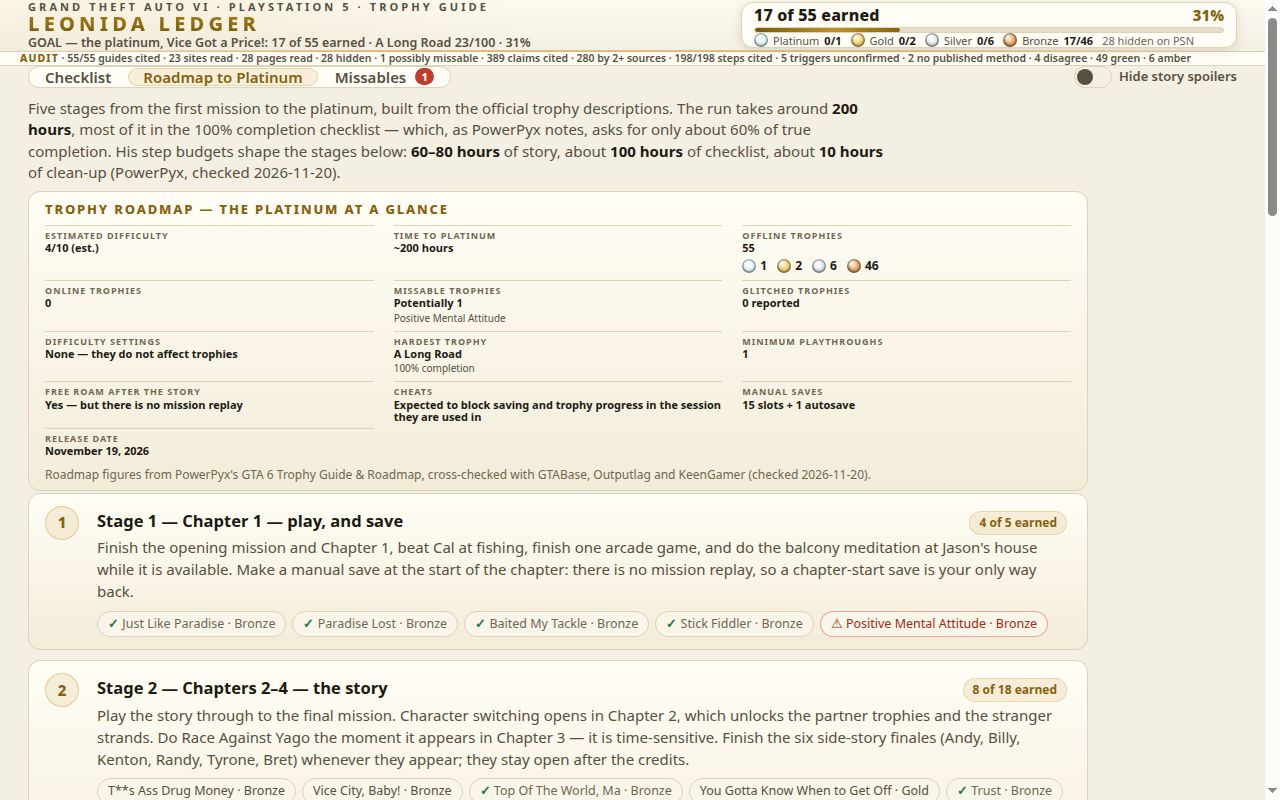
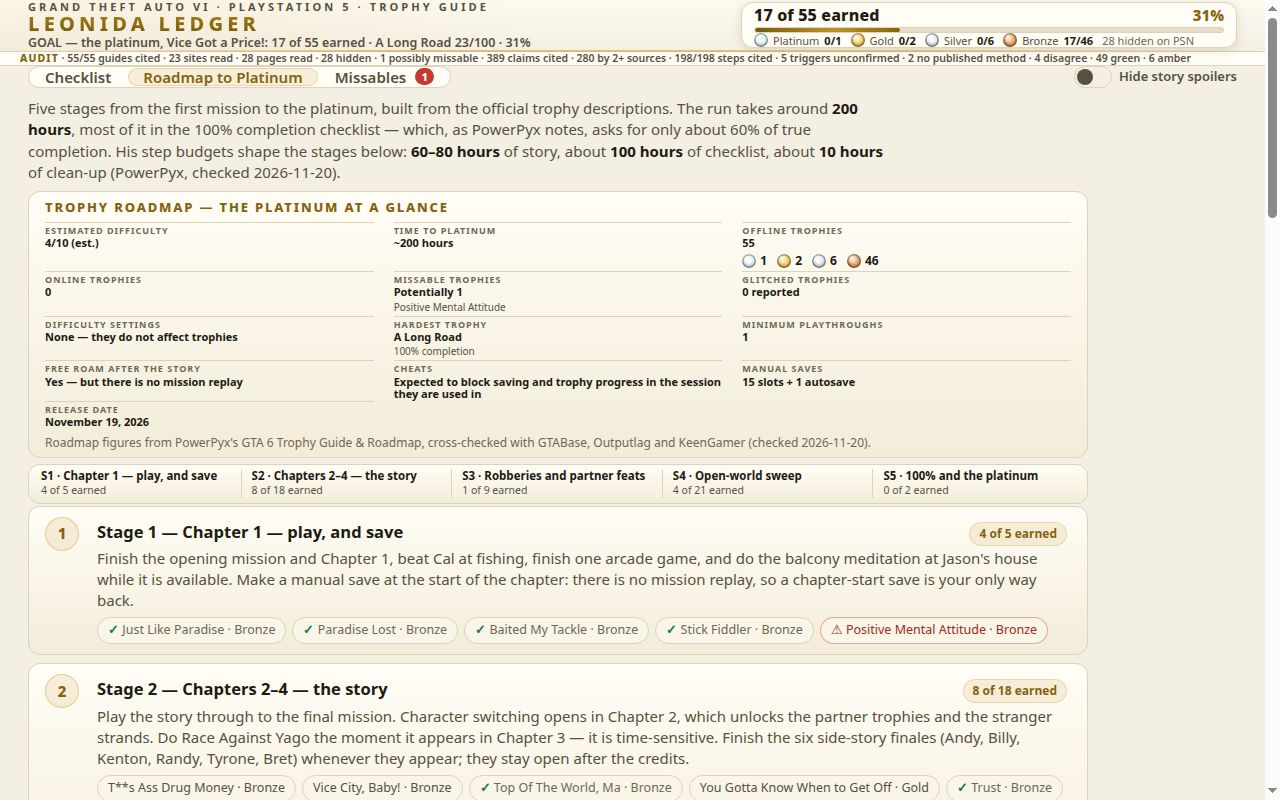
v24: screenshot-evidence round — named meditation spots on the missables card, NEXT UP strip skips spoiler-masked trophies, five-stage overview band on the roadmap

Changed region(s): [[0.0312, 0.25, 0.8438, 0.9062], [0.0625, 0.9375, 0.8438, 1.0]]

diff --git a/app/app.js b/app/app.js
@@ -1382,8 +1382,16 @@ function differBox() {
    then the official list's order inside the stage — skipping
    the ones already earned. It follows the ticks like the
    banner's Next Up line, and puts the roadmap's sequence on
-   the cover instead of leaving it to the roadmap shot. A
-   spoiler-hidden trophy is named as hidden, as there. */
+   the cover instead of leaving it to the roadmap shot.
+   v24: a spoiler-masked trophy cannot be named, and a run of
+   identical "Hidden story trophy" slots told the reader
+   nothing about the road ahead — so the strip walks past the
+   masked ones to the next trophies it can name, in the same
+   roadmap order (for a player running with spoilers hidden,
+   those named trophies ARE what is next). Masked trophies
+   only fill the strip when fewer than four nameable ones
+   remain, and then they carry their stage so the sequence
+   still reads as a sequence. */
 function renderNextUp() {
   const strip = document.getElementById('nextUpStrip');
   if (!strip) return;
@@ -1394,12 +1402,15 @@ function renderNextUp() {
   strip.append(label);
   const items = document.createElement('div');
   items.className = 'nextup-items';
-  const ordered = trophies
+  const unearned = trophies
     .map((t, i) => ({ t, i }))
     .sort((a, b) => a.t.stage - b.t.stage || a.i - b.i)
     .map(({ t }) => t)
-    .filter((t) => !earned.has(t.name))
-    .slice(0, 4);
+    .filter((t) => !earned.has(t.name));
+  const ordered = [
+    ...unearned.filter((t) => !isSpoilerHidden(t)),
+    ...unearned.filter((t) => isSpoilerHidden(t)),
+  ].slice(0, 4);
   if (!ordered.length) {
     const done = document.createElement('span');
     done.className = 'nextup-item';
@@ -1412,7 +1423,7 @@ function renderNextUp() {
     const stage = document.createElement('span');
     stage.className = 'nextup-stage';
     stage.textContent = 'S' + trophy.stage;
-    item.append(stage, document.createTextNode(isSpoilerHidden(trophy) ? 'Hidden story trophy' : trophy.name));
+    item.append(stage, document.createTextNode(isSpoilerHidden(trophy) ? 'Hidden story trophy · Stage ' + trophy.stage : trophy.name));
     items.append(item);
   }
   strip.append(items);
@@ -1804,7 +1815,34 @@ function renderRegistry() {
   }
 }
 
+/* The five stages at a glance (v24): a one-band overview over
+   the roadmap's stage cards, naming every stage and its live
+   earned count. The cards below run long — only the first two
+   reach the roadmap screenshot's frame — so the band is what
+   proves the full five-stage route in a single frame, on the
+   page and in the shot. Rendered with the cards so the counts
+   can never drift apart. */
+function renderStageOverview() {
+  const band = document.getElementById('stageOverview');
+  if (!band) return;
+  band.replaceChildren();
+  for (const stage of doc.roadmap ?? []) {
+    const members = trophies.filter((t) => t.stage === stage.stage);
+    const cell = document.createElement('div');
+    cell.className = 'stage-overview-cell';
+    const title = document.createElement('span');
+    title.className = 'ov-title';
+    title.textContent = 'S' + stage.stage + ' · ' + stage.title;
+    const count = document.createElement('span');
+    count.className = 'ov-count';
+    count.textContent = members.filter((t) => earned.has(t.name)).length + ' of ' + members.length + ' earned';
+    cell.append(title, count);
+    band.append(cell);
+  }
+}
+
 function renderRoadmap() {
+  renderStageOverview();
   const stageList = document.getElementById('stageList');
   stageList.replaceChildren();
   for (const stage of doc.roadmap ?? []) {
@@ -1882,7 +1920,43 @@ function renderMissables() {
       body.append(counterLine);
     }
     if (trophy.missableNote) body.append(alertElement(trophy));
-    body.append(guide, open);
+    body.append(guide);
+    /* v24: when a flagged trophy's steps name their places —
+       the meditation spots are the case in the data — the card
+       prints them as a compact spot index, verbatim from the
+       steps with the same citation markers the guide panel
+       carries. The named places are the strongest evidence
+       this page owns; leaving them behind the panel's "Open
+       full guide" hid them from anyone reading the Missables
+       tab (and from the screenshot the judges score). The
+       first spot is the missable one itself, introduced by
+       its own short warning line from the data. */
+    const spotSteps = (trophy.steps || [])
+      .map((s, i) => ({ s, i }))
+      .filter(({ s }) => /\(meditations? \d/.test(s));
+    if (spotSteps.length >= 6) {
+      const spots = document.createElement('div');
+      spots.className = 'missable-spots';
+      const spotsLabel = document.createElement('p');
+      spotsLabel.className = 'spots-label';
+      spotsLabel.textContent = 'The spots, named — every place the steps send you';
+      spots.append(spotsLabel);
+      const spotsList = document.createElement('ol');
+      spotsList.className = 'spots-list';
+      const firstSpot = document.createElement('li');
+      firstSpot.append(document.createTextNode("Jason's House (meditation 1) — " + (trophy.missableShort || '')));
+      for (const ref of citedRefs(trophy, STEP_CITES[trophy.id]?.[1])) firstSpot.append(citeSpan(ref));
+      spotsList.append(firstSpot);
+      for (const { s, i } of spotSteps) {
+        const li = document.createElement('li');
+        li.append(document.createTextNode(s));
+        for (const ref of citedRefs(trophy, STEP_CITES[trophy.id]?.[i + 1])) li.append(citeSpan(ref));
+        spotsList.append(li);
+      }
+      spots.append(spotsList);
+      body.append(spots);
+    }
+    body.append(open);
     card.append(body);
     list.append(card);
   }

diff --git a/app/style.css b/app/style.css
@@ -1368,23 +1368,93 @@ main { padding: 0 28px 18px; }
 .missable-card .open-guide { margin-top: 2px; }
 .missable-card .detail-guide { margin: 0 0 11px; font-size: 15px; line-height: 1.55; }
 
+/* ---------- Named-spot index on a missable card (v24) ----------
+   The meditation spots, printed on the card itself in two
+   columns so all ten named places sit inside the Missables
+   frame instead of only inside the guide panel. */
+.missable-spots {
+  border-top: 1px solid var(--line);
+  padding-top: 9px;
+  margin: 0 0 11px;
+}
+.missable-spots .spots-label {
+  margin: 0 0 6px;
+  font-size: 11px;
+  font-weight: 800;
+  letter-spacing: 0.12em;
+  text-transform: uppercase;
+  color: var(--gold-hi);
+}
+.missable-spots .spots-list {
+  columns: 2;
+  column-gap: 30px;
+  margin: 0;
+  padding-left: 18px;
+  font-size: 12.5px;
+  line-height: 1.4;
+}
+.missable-spots .spots-list li { margin-bottom: 4px; break-inside: avoid; }
+.missable-spots .cite-ref { font-size: 10.5px; }
+
 /* v15: the roadmap view alone compresses a step, so its screenshot
    can be framed at scroll-top — masthead, intro, the full metadata
    grid and the first stage card in frame, the second at least
    half. The Missables view keeps the roomier settings above. */
 .view-roadmap { padding-top: 10px; }
 .view-roadmap .roadmap-intro { line-height: 1.42; }
-.view-roadmap .meta-full { padding: 8px 16px 6px; margin: 8px 0 2px; }
-.view-roadmap .meta-full-title { margin-bottom: 5px; }
-.view-roadmap .meta-grid-full { gap: 5px 20px; }
-.view-roadmap .meta-grid-full .meta-cell { padding-top: 4px; }
+.view-roadmap .meta-full { padding: 6px 16px 5px; margin: 8px 0 2px; }
+.view-roadmap .meta-full-title { margin-bottom: 4px; }
+.view-roadmap .meta-grid-full { gap: 1px 20px; }
+.view-roadmap .meta-grid-full .meta-cell { padding-top: 2px; }
 .view-roadmap .meta-label { line-height: 1.25; }
-.view-roadmap .meta-sources { margin-top: 8px; }
-.view-roadmap .stage-list { gap: 10px; }
-.view-roadmap .stage-card { padding: 12px 20px 12px 16px; }
+.view-roadmap .meta-sources { margin-top: 5px; }
+.view-roadmap .stage-list { gap: 8px; }
+.view-roadmap .stage-card { padding: 10px 20px 10px 16px; }
 .view-roadmap .stage-card h3 { margin: 3px 0 4px; }
-.view-roadmap .stage-card p { line-height: 1.45; margin-bottom: 8px; }
+.view-roadmap .stage-card p { line-height: 1.4; margin-bottom: 6px; }
 .view-roadmap .stage-chip { padding: 3px 10px; }
+
+/* ---------- Stage overview band (roadmap, v24) ----------
+   One band naming all five stages with their live earned
+   counts, so the whole route is provable in the roadmap
+   frame even though the stage cards run past it. v24 also
+   tightened the roadmap meta grid and card spacing above to
+   fund this band: the cards' net shift stays small enough
+   that Stage 2 still shows at least half in frame. */
+.stage-overview {
+  display: flex;
+  gap: 8px;
+  background: linear-gradient(180deg, var(--surface), #f3ecd9);
+  border: 1px solid var(--line);
+  border-radius: var(--radius);
+  padding: 4px 12px 5px;
+  margin: 6px 0 2px;
+  max-width: 1060px;
+}
+.stage-overview-cell {
+  flex: 1 1 0;
+  min-width: 0;
+  display: flex;
+  flex-direction: column;
+  gap: 1px;
+  border-left: 1px solid var(--line);
+  padding-left: 10px;
+}
+.stage-overview-cell:first-child { border-left: none; padding-left: 0; }
+.stage-overview-cell .ov-title {
+  font-size: 11.5px;
+  font-weight: 700;
+  line-height: 1.25;
+  white-space: nowrap;
+  overflow: hidden;
+  color: var(--text);
+}
+.stage-overview-cell .ov-count {
+  font-size: 10.5px;
+  line-height: 1.3;
+  color: var(--muted);
+  font-variant-numeric: tabular-nums;
+}
 
 /* ---------- Tips & Strategies (roadmap) ---------- */
 .tips {

diff --git a/app/index.html b/app/index.html
@@ -191,6 +191,7 @@
   <section class="view view-roadmap" id="viewRoadmap" hidden>
     <p class="roadmap-intro">Five stages from the first mission to the platinum, built from the official trophy descriptions. The run takes around <strong>200 hours</strong>, most of it in the 100% completion checklist — which, as PowerPyx notes, asks for only about 60% of true completion. His step budgets shape the stages below: <strong>60–80 hours</strong> of story, about <strong>100 hours</strong> of checklist, about <strong>10 hours</strong> of clean-up (PowerPyx, checked 2026-11-20).</p>
     <div class="meta-full" id="metaFull"></div>
+    <div class="stage-overview" id="stageOverview" aria-label="The five stages at a glance"></div>
     <ol class="stage-list" id="stageList"></ol>
     <div class="tips" id="tipsBlock">
       <h2 class="tips-title">Tips &amp; Strategies</h2>
@@ -214,7 +215,7 @@
 </main>
 
 <footer class="colophon">
-  <p class="byline"><strong>Leonida Ledger</strong> — GTA VI Trophy Guide &amp; Tracker · Version 23 · Updated November 21, 2026</p>
+  <p class="byline"><strong>Leonida Ledger</strong> — GTA VI Trophy Guide &amp; Tracker · Version 24 · Updated November 21, 2026</p>
   <p class="provenance">Built on PlayStation's official trophy list: names, descriptions and grades are Sony's text, as mirrored by Exophase and PSNProfiles. Every guide in this app names its sources in its own panel.</p>
   <p><strong>Rarity.</strong> The percentage on each trophy is the share of Exophase-tracked players who had earned it when the list was read on 21 November 2026. Treat it as a launch-week snapshot: these figures move fast as more players start the game.</p>
   <p><strong>Sources.</strong> Guide prose and steps that come from a published launch-week guide cite Outputlag's GTA 6 Trophy List, PowerPyx's Trophy Guide &amp; Roadmap, GTABase's Trophy Guide &amp; Achievements List and KeenGamer's GTA 6 Trophy Guide &amp; Platinum Roadmap (Outputlag, PowerPyx, GTABase and KeenGamer checked 2026-11-20). Sixteen further launch-week lists and guides were read in full on 2026-11-21 — 23 sites and 28 pages in all — each numbered in the registry below and cited only where its facts are used; the roadmap figures up top — difficulty, time, step budgets — come from PowerPyx's Trophy Guide &amp; Roadmap, cross-checked with GTABase, Outputlag and KeenGamer. Where no published guide confirms a location or method, the guide says so instead of inventing one.</p>
